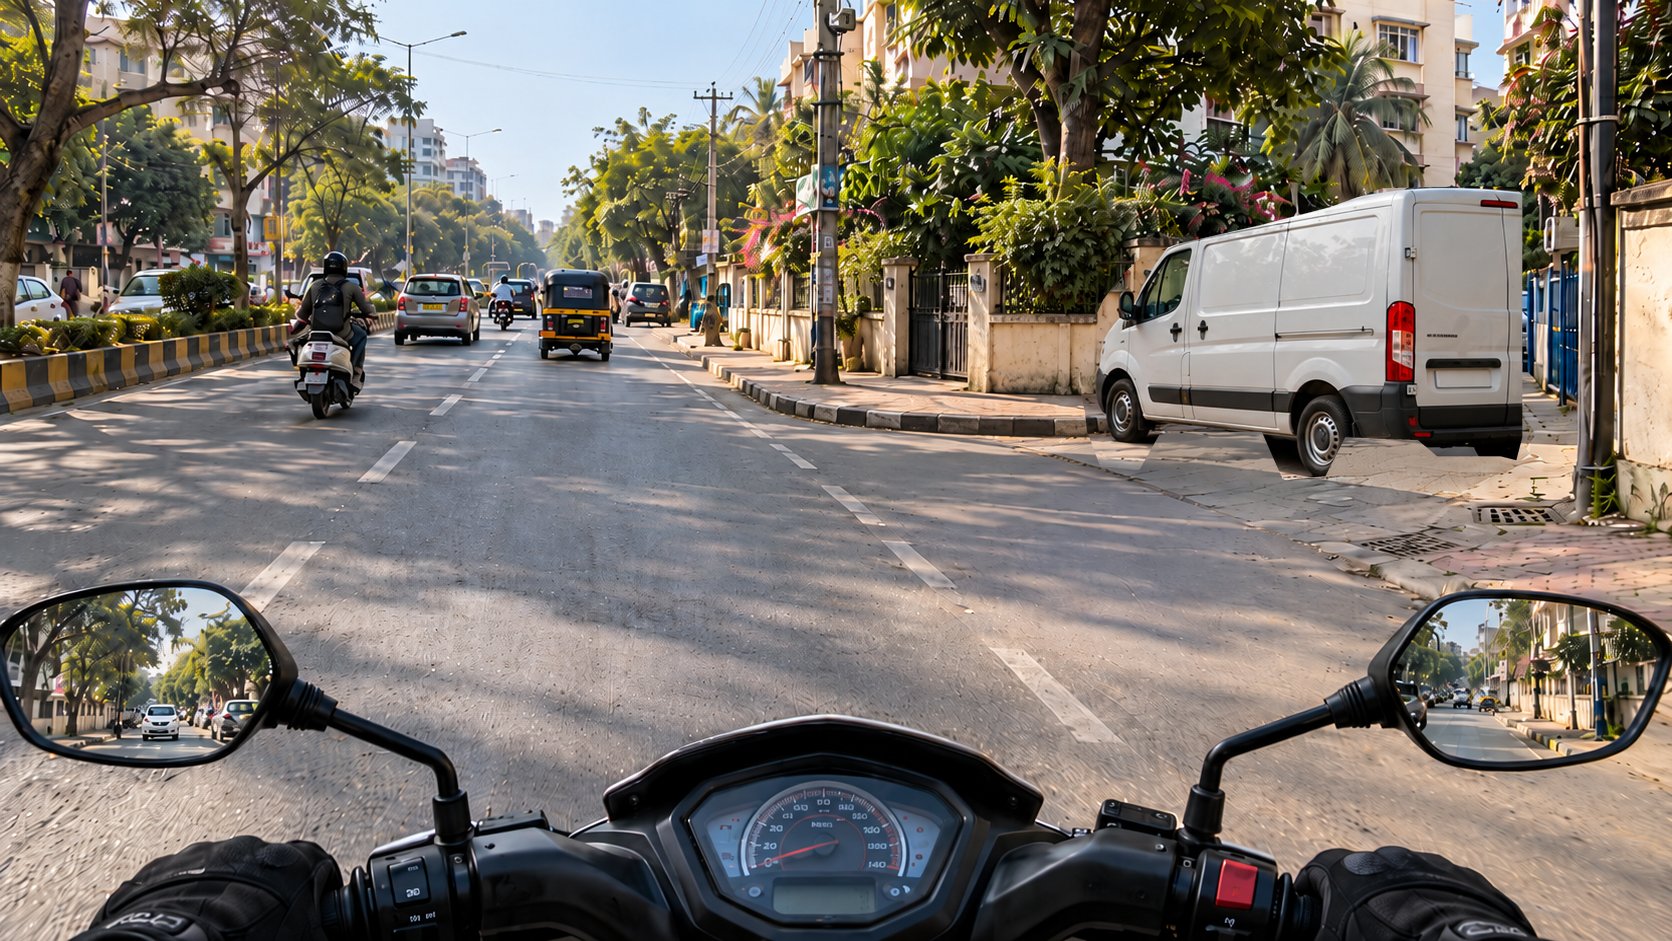
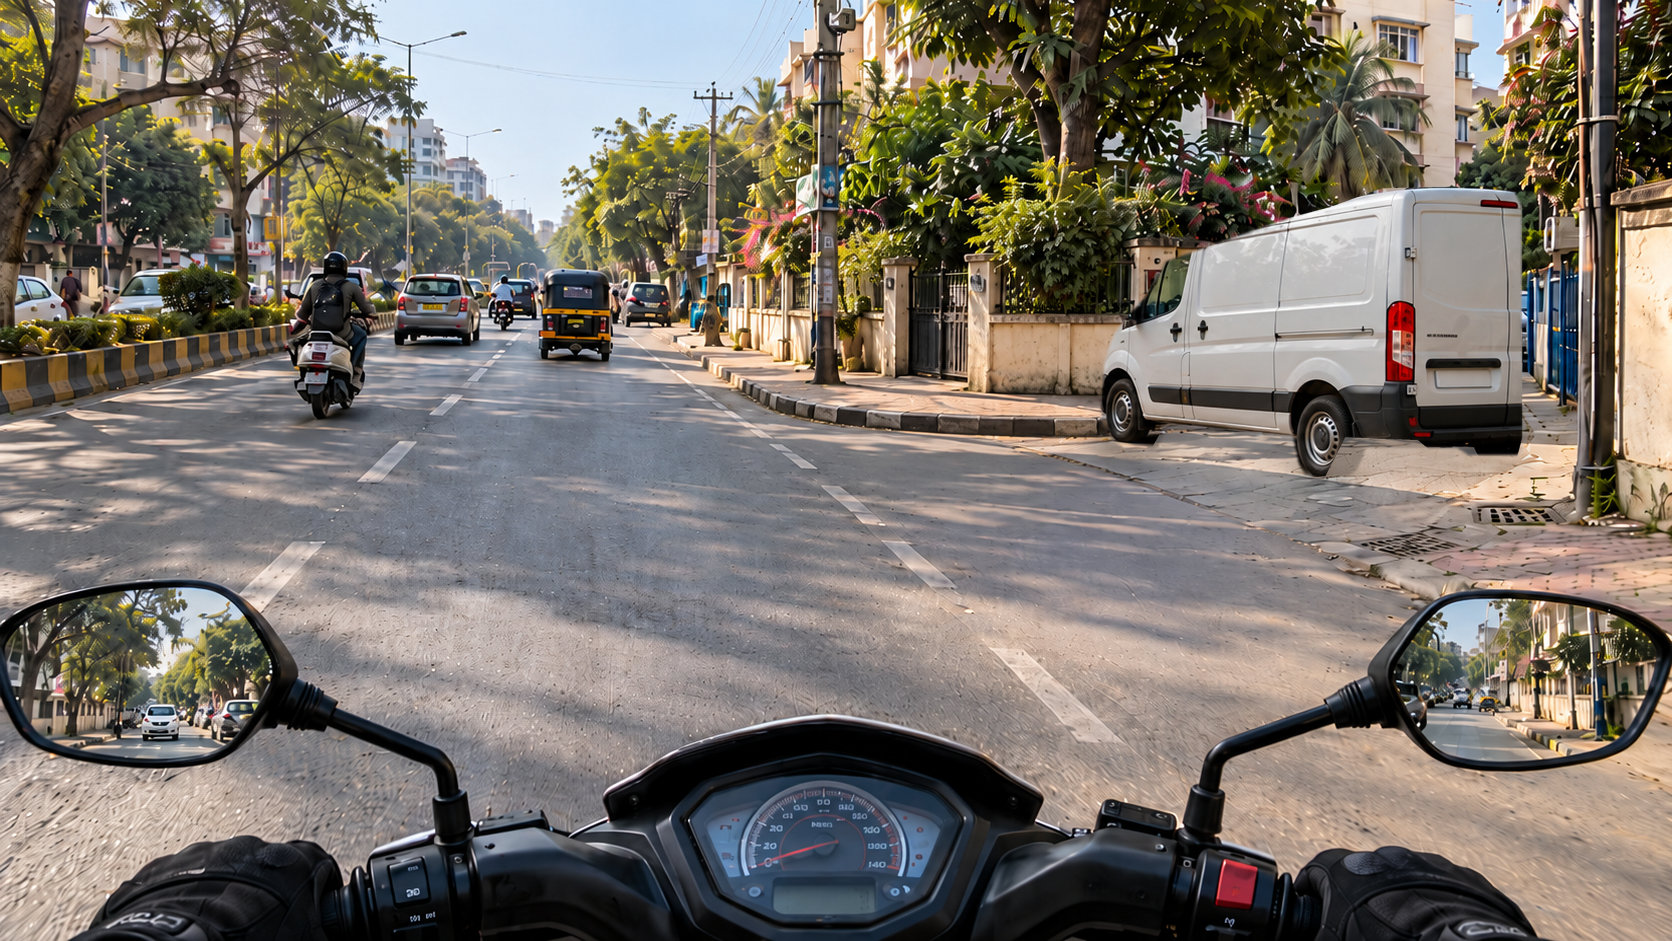
Repair van matte and contact shadow without modifying approved scene bases

Changed region(s): [[0.622, 0.2465, 0.9019, 0.5239], [0.7464, 0.2157, 0.7775, 0.2465]]

diff --git a/tests/artworkIntegration.test.ts b/tests/artworkIntegration.test.ts
@@ -18,7 +18,7 @@ test('revised scenes preserve stable IDs, unvalidated status and schema but bump
   assert.deepEqual(scenes.map(s => s.id), ['bus-training-01', 'unfamiliar-blocked-01', 'matched-clear-01']);
   for (const scene of scenes) {
     assert.equal(scene.schemaVersion, 1);
-    assert.equal(scene.sceneVersion, '1.2.0-provisional');
+    assert.equal(scene.sceneVersion, scene.id === 'unfamiliar-blocked-01' ? '1.2.1-provisional' : '1.2.0-provisional');
     assert.equal(scene.contentReview.status, 'provisional');
     assert.deepEqual(validateScene(scene), []);
     assert.deepEqual(pngDimensions(scene.base.src), { width: scene.base.width, height: scene.base.height });
@@ -67,7 +67,10 @@ test('final PDF-sourced tap areas stay within normalized viewport and distinguis
   const vanScreen = blocked.tapRegions.find(r => r.id === 'beside-delivery-van')!.bounds;
   const openEntry = clear.tapRegions.find(r => r.id === 'open-right-entry')!.bounds;
   assert.ok(busHidden.x < opposing.x, 'bus-side hidden hazard is left of opposing SUV');
-  assert.ok(vanScreen.x < openEntry.x, 'occluding van forward edge lies left of open side-road approach');
+  assert.ok(vanScreen.x < openEntry.x, 'occlusion starts to the left of the open junction');
+  assert.ok(vanScreen.x + vanScreen.width > openEntry.x, 'junction hotspot extends into the van-screened approach');
+  assert.ok(vanScreen.y < openEntry.y + openEntry.height && vanScreen.y + vanScreen.height > openEntry.y, 'junction hotspot overlaps open entrance vertically');
+  assert.ok(vanScreen.x + vanScreen.width < 0.92, 'blocked hotspot remains focused on van/partly hidden entry, not the far pavement');
   assert.notDeepEqual(vanScreen, openEntry);
   assert.equal(blocked.rubric.acceptedRegionIds[0], 'beside-delivery-van');
   assert.deepEqual(clear.rubric.acceptedRegionIds, []);

diff --git a/src/content/scenes/unfamiliarBlocked.ts b/src/content/scenes/unfamiliarBlocked.ts
@@ -3,7 +3,7 @@ import type { SceneDefinition } from '../../contracts/scene.ts';
 /** Unfamiliar layout for a later, unscored blocked-view practice assessment. */
 export const unfamiliarBlockedScene: SceneDefinition = {
   schemaVersion: 1,
-  sceneVersion: '1.2.0-provisional',
+  sceneVersion: '1.2.1-provisional',
   id: 'unfamiliar-blocked-01',
   purpose: 'assessment',
   condition: 'blocked-view',
@@ -35,10 +35,10 @@ export const unfamiliarBlockedScene: SceneDefinition = {
     {
       id: 'beside-delivery-van',
       label: {
-        en: 'Side-road approach partly screened past the front-left edge of the delivery van',
-        hi: 'डिलीवरी वैन के बाएँ अगले किनारे से आंशिक रूप से छिपा बगल की सड़क का हिस्सा',
+        en: 'Side-road junction partly concealed beyond the delivery van',
+        hi: 'डिलीवरी वैन के पीछे आंशिक रूप से छिपा बगल की सड़क का प्रवेश',
       },
-      bounds: { x: 0.638, y: 0.30, width: 0.133, height: 0.232 },
+      bounds: { x: 0.742, y: 0.248, width: 0.165, height: 0.279 },
     },
     {
       id: 'far-left-vehicle',

diff --git a/scripts/rebuild-van-layer.py b/scripts/rebuild-van-layer.py
@@ -1,0 +1,66 @@
+"""Reproduce the October 2026 van cutout repair without regenerating scene art.
+
+The input is the van/shadow layer committed at the frozen parent SHA.
+Pillow is required. Run: python scripts/rebuild-van-layer.py [--write].
+Default mode verifies that the committed files exactly match a deterministic rebuild.
+"""
+from io import BytesIO
+from pathlib import Path
+import subprocess
+import sys
+from hashlib import sha256
+from PIL import Image, ImageDraw, ImageFilter
+
+ROOT = Path(__file__).resolve().parent.parent
+SOURCE_COMMIT = '28f1e7c94d224acc2feffba2c3e5eefdf54ec3b4'
+REL = 'public/scenes/unfamiliar-blocked-01/van-shadow-layer.png'
+PNG = subprocess.run(['git', 'show', f'{SOURCE_COMMIT}:{REL}'], cwd=ROOT, check=True, capture_output=True).stdout
+old = Image.open(BytesIO(PNG)).convert('RGBA')
+w, h = old.size
+assert (w, h) == (1672, 941)
+
+# Trace the existing van's visible outer boundary, excluding the tan wall and curb
+# accidentally present at the source cutout's front and undercarriage.
+poly = [
+    (1108,350),(1114,334),(1125,319),(1144,298),(1156,280),(1166,261),
+    (1371,189),(1395,185),(1489,186),(1514,192),(1521,207),(1522,450),
+    (1517,454),(1469,455),(1456,447),(1374,447),(1364,448),(1362,457),
+    (1355,470),(1348,475),(1320,478),(1305,474),(1299,464),(1293,435),
+    (1177,429),(1165,430),(1157,446),(1149,448),(1125,448),(1114,441),
+    (1107,432),(1102,421),(1101,404),(1103,381),(1104,365)
+]
+mask = Image.new('L', old.size)
+ImageDraw.Draw(mask).polygon(poly, fill=255)
+mask = mask.filter(ImageFilter.GaussianBlur(1.2))
+# A light-weight per-pixel alpha product, retaining the original van's visible pixels.
+from PIL import ImageChops
+alpha = ImageChops.multiply(old.getchannel('A'), mask)
+vehicle = old.copy()
+vehicle.putalpha(alpha)
+
+# Contact shadows are newly authored, translucent and feathered; they include no pavement pixels.
+shadow = Image.new('L', old.size)
+draw = ImageDraw.Draw(shadow)
+draw.ellipse((1087,424,1175,467), fill=95)
+draw.ellipse((1289,448,1374,488), fill=104)
+draw.polygon([(1125,435),(1505,437),(1541,472),(1373,480),(1250,456),(1148,452)], fill=50)
+shadow = shadow.filter(ImageFilter.GaussianBlur(9))
+shadow_layer = Image.new('RGBA', old.size, (31,34,34,0))
+shadow_layer.putalpha(shadow)
+layer = Image.alpha_composite(shadow_layer, vehicle)
+clear = Image.open(ROOT/'public/scenes/matched-clear-01/base.png').convert('RGBA')
+blocked = Image.alpha_composite(clear, layer).convert('RGB')
+
+out_layer = ROOT/REL
+out_blocked = ROOT/'public/scenes/unfamiliar-blocked-01/base.png'
+if '--write' in sys.argv:
+    layer.save(out_layer)
+    blocked.save(out_blocked)
+    print('Wrote updated layer and blocked composite')
+else:
+    current = Image.open(out_layer).convert('RGBA')
+    actual = Image.open(out_blocked).convert('RGB')
+    assert current.tobytes() == layer.tobytes(), 'layer differs from deterministic rebuild'
+    assert actual.tobytes() == blocked.tobytes(), 'blocked scene differs from clear + rebuilt layer'
+    print('PASS: committed van cutout and blocked composite match deterministic rebuild')
+print('van decoded RGBA SHA256:', sha256(layer.tobytes()).hexdigest())

diff --git a/scripts/verify-artwork.py b/scripts/verify-artwork.py
@@ -13,7 +13,6 @@ SOURCES = {
[4 lines of base64/hex data omitted]
 }
 
 def load(name):
@@ -24,7 +23,7 @@ def load(name):
 for name, digest in SOURCES.items():
     im=load(name)
     assert sha256(im.tobytes()).hexdigest()==digest, f'PDF-source pixel mismatch: {name}'
-    print('SOURCE MATCH:',name,digest)
+    print('APPROVED FROZEN SOURCE MATCH:',name,digest)
 
 bus=load('bus-training-01/base.png')
 actor=load('bus-training-01/pedestrian-emerges.png')
@@ -38,6 +37,8 @@ print('PASS: same frozen bus for both endings; no differences outside pedestrian
 
 clear=load('matched-clear-01/base.png')
 van=load('unfamiliar-blocked-01/van-shadow-layer.png')
[1 lines of base64/hex data omitted]
+print('PASS: corrected van/shadow layer hash matched')
 blocked=load('unfamiliar-blocked-01/base.png')
 expected=Image.alpha_composite(clear,van).convert('RGB')
 assert np.array_equal(np.asarray(expected),np.asarray(blocked.convert('RGB'))), 'blocked view is not exactly clear + van/shadow'
@@ -47,4 +48,8 @@ outside=int(np.count_nonzero(diff & (mask_van==0)))
 assert outside==0, f'{outside} changed pixels outside van/shadow overlay'
 assert np.count_nonzero(diff)>0, 'missing van composite'
 print(f'PASS: only van/shadow pixels differ; outside changed = {outside}; changed = {np.count_nonzero(diff)}')
-print('PASS: all frozen assets match approved PDF/source pixel hashes')
+# Excluded rectangular pavement pieces beneath the vehicle must not remain opaque.
+assert int(np.max(mask_van[480:515,1160:1280])) < 90, 'opaque underbody pavement fragment remains'
+assert int(np.max(mask_van[240:300,1050:1100])) < 90, 'opaque background near front cut edge remains'
+print('PASS: cropped pavement/wall matte fragments eliminated and wheel-contact shadow retained')
+print('PASS: approved bus/pedestrian/clear sources preserved; repaired van layer explicitly versioned')

diff --git a/docs/ARTWORK_FINAL_SOURCE_VERIFICATION.md b/docs/ARTWORK_FINAL_SOURCE_VERIFICATION.md
@@ -1,6 +1,6 @@
 # BlindSpot artwork — PDF-source restoration and final layer integrity (candidate)
 
-**Source of authority for this restoration:** `BlindSpot_Final_Artwork_Review.pdf` (6-page user-approved artwork review) and its exact scene source files `blindspot_pdf_work/bus-base.png`, `blindspot_pdf_work/pedestrian-transparent-overlay.png`, `blindspot_pdf_work/assessment-clear.png`, plus the previously accepted transparent van-and-shadow extraction `blindspot_artwork_approved/assessment-van-shadow-layer.png`. The source files are not placed in the repository twice; the actual learner assets below contain their exact decoded pixel arrays.
+**Source of authority for this restoration:** `BlindSpot_Final_Artwork_Review.pdf` (6-page user-approved artwork review) and its exact scene source files `blindspot_pdf_work/bus-base.png`, `blindspot_pdf_work/pedestrian-transparent-overlay.png`, `blindspot_pdf_work/assessment-clear.png`, plus the earlier transparent van-and-shadow extraction, subsequently cleaned in the focused van-only matte repair. The source files are not placed in the repository twice; the actual learner assets below contain their exact decoded pixel arrays.
 
 ## Immutable sources and precomposition
 
@@ -9,25 +9,31 @@
[5 lines of base64/hex data omitted]
 | Assessment blocked composite | `public/scenes/unfamiliar-blocked-01/base.png` | recomputed from source + overlay | Clear + van/shadow alpha |
 
 All five raster assets are **1672 × 941**. The transparent layers have a full-frame canvas and non-opaque pixels. Ending 1 has zero layers, Ending 2 has only the pedestrian layer and shares the base file path. Neither overlay is present in pre-lock observation.
 
-`scripts/verify-artwork.py` checks all four approved decoded-pixel hashes, exact RGB equality for the clear+van composite, exactly zero changed pixels outside van/shadow alpha, and zero changes outside pedestrian alpha. Its output is included in release verification logs. No background was regenerated.
+`scripts/verify-artwork.py` checks the three immutable approved-source decoded-pixel hashes and the separately versioned repaired-van decoded-pixel hash, exact RGB equality for the clear+van composite, exactly zero changed pixels outside van/shadow alpha, and zero changes outside pedestrian alpha. Its output is included in release verification logs. No background was regenerated.
 
-**Matched assessment evidence:** The vehicle is a composited cutout from the approved image, not a new independent street render. Some edge/shadow matte artifacts remain visible around the extracted van, and final physical scene plausibility has not been independently validated. Layer identity verifies background fidelity only; it does not certify traffic safety or instructional correctness.
+**Matched assessment evidence:** The vehicle is a composited cutout from the approved image, not a new independent street render. The former wall and curb fragments around the extracted van were removed with a vehicle silhouette alpha mask and a new feathered contact shadow. Physical scene plausibility has not been independently validated. Layer identity verifies background fidelity only; it does not certify traffic safety or instructional correctness.
 
 ## Updated normalized tap-region rectangles
 
 - Bus hidden roadside: `(0.438, 0.285, 0.115, 0.235)`; opposing SUV: `(0.602, 0.313, 0.142, 0.192)`.
-- Blocked side street beside van: `(0.638, 0.300, 0.133, 0.232)`.
+- Blocked side street behind van: `(0.742, 0.248, 0.165, 0.279)`; overlaps the van-screened junction but excludes the far-right pavement.
 - Clear-view exposed junction entrance: `(0.773, 0.270, 0.167, 0.247)`.
 
 These are provisional rectangles based on the *actual approved raster geometry* and require running browser tap alignment review at desktop and 375px, including letterboxing. They are not pixel-segmentation masks.
 
 ## Contract and assessment constraints
 
-The three scenes now have `sceneVersion: '1.2.0-provisional'`; their stored-record and scene schemas remain version 1. All semantic answer IDs, review-feedback logic, replay restrictions, retry semantics, provisional rubric, and `reviewedCriteria: null` behavior remain unchanged. Older scene-version snapshots should never be applied against these images.
+Bus and clear scenes remain at `1.2.0-provisional`; only the blocked scene advances to `1.2.1-provisional`; their stored-record and scene schemas remain version 1. All semantic answer IDs, review-feedback logic, replay restrictions, retry semantics, provisional rubric, and `reviewedCriteria: null` behavior remain unchanged. Older scene-version snapshots should never be applied against these images.
 
 **Not an application screenshot:** source-artwork thumbnails are image previews only. Until full npm installation, Vite build, and live Playwright/Chromium checks succeed, no running-app visual acceptance is claimed.
+
+## Van-only matte repair verification
+
+This focused revision starts from `28f1e7c94d224acc2feffba2c3e5eefdf54ec3b4`. `scripts/rebuild-van-layer.py` independently reconstructs the exact repaired layer from the ancestor commit (it does not regenerate a scene); it extracts just the visible vehicle, excludes the old tan-wall/curb patches, adds feathered wheel/undercarriage shadow, and recomposes the new blocked image over the unmodified clear background. Default invocation verifies; `--write` deliberately regenerates the two dependent files. `scripts/verify-artwork.py` verifies decoded pixel hashes and exact clear+van alpha compositing. The previous bus and clear decoded hashes are unchanged.
+
+The highlighted hotspot preview `verification/van-repair/blocked-tap-375-QA-only.png` is a source-image alignment diagnostic, **not** a running-app screenshot. Browser tap QA and instructor review remain pending.

diff --git a/docs/ASSET_CREDITS.md b/docs/ASSET_CREDITS.md
@@ -9,7 +9,7 @@
 | Text and headings | `src/App.tsx`, `index.html` | Authored foundation status copy and name/tagline from the submitted proposal. |
 | Fonts | foundation CSS | System/UI font stack; no downloaded or redistributed font files. |
 | Favicon SVG/ICO | `public/favicon.svg` / `public/favicon.ico`, referenced in `index.html` | Original vector markup and programmatically drawn raster icon prepared in this integration branch. No external logo, font, image or third-party asset used. Independent license/brand review pending. |
-| Scene images and post-lock overlay | `public/scenes/bus-training-01/`, `public/scenes/unfamiliar-blocked-01/`, `public/scenes/matched-clear-01/` | Originally project-authored SVGs during accepted B content phase; replaced for this artwork candidate by AI-generated raster bus base, transparent pedestrian overlay, fixed clear assessment background, derived white-van cutout and shadow, and exact blocked-view composite. See `docs/ARTWORK_FINAL_SOURCE_VERIFICATION.md` for final PDF-source hashes and pixel-level provenance, alpha-composite verification, scene versions and provisional review status. |
+| Scene images and post-lock overlay | `public/scenes/bus-training-01/`, `public/scenes/unfamiliar-blocked-01/`, `public/scenes/matched-clear-01/` | Originally project-authored SVGs during accepted B content phase; replaced for this artwork candidate by AI-generated raster bus base, transparent pedestrian overlay, fixed clear assessment background, derived white-van cutout and shadow, and exact blocked-view composite. See `docs/ARTWORK_FINAL_SOURCE_VERIFICATION.md` for frozen source hashes, deterministic van matte-cleanup provenance, composite checks, scene versions and provisional status. |
 | Automated fixtures | `tests/fixture.ts` | Synthetic authored data for contract testing only, not instructor-reviewed scene content. |
 | Music, sound, datasets, video | — | None included. |
 
